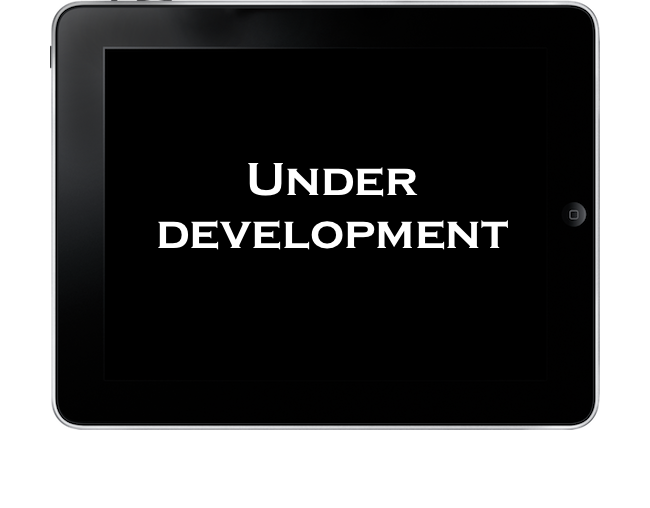
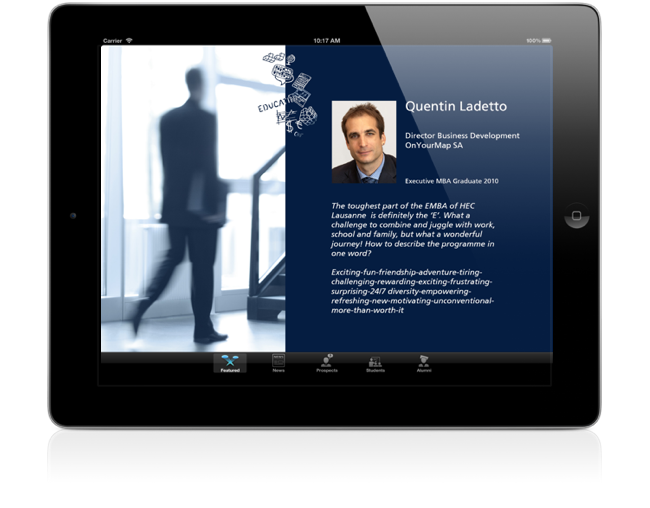
Updated Project section.

diff --git a/index.html b/index.html
@@ -283,6 +283,7 @@
                           An iOS application for use on the campus of the
                           University of Lausanne, Switzerland.
                         </p>
+                        <a href="http://itunes.apple.com/pl/app/smartcampus/id537146524?mt=8"><img src="/assets/images/gallery/badge.png" alt="smart campus badge" /></a>
                       </div>
                       <img src="/assets/images/gallery/iphone-app.png" alt="smart campus app"/>
                     </li>
@@ -291,8 +292,9 @@
                         <h2>Executive MBA</h2>
                         <h3>iPad app for the University of Lausanne</h3>
                         <p>
-                          Under development...
+                          Soon...
                         </p>
+                        <a href="#"><img src="/assets/images/gallery/badge.png" alt="EMBA badge" /></a>
                       </div>
                       <img src="/assets/images/gallery/ipad-app.png" alt="executive mba app"/>
                     </li>
